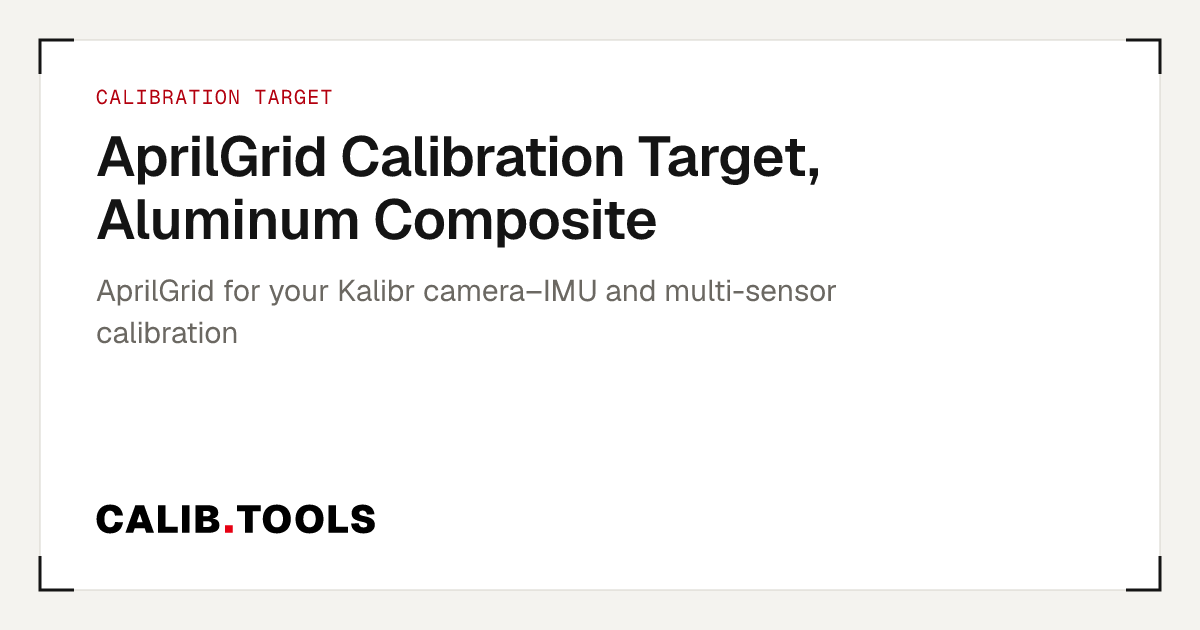
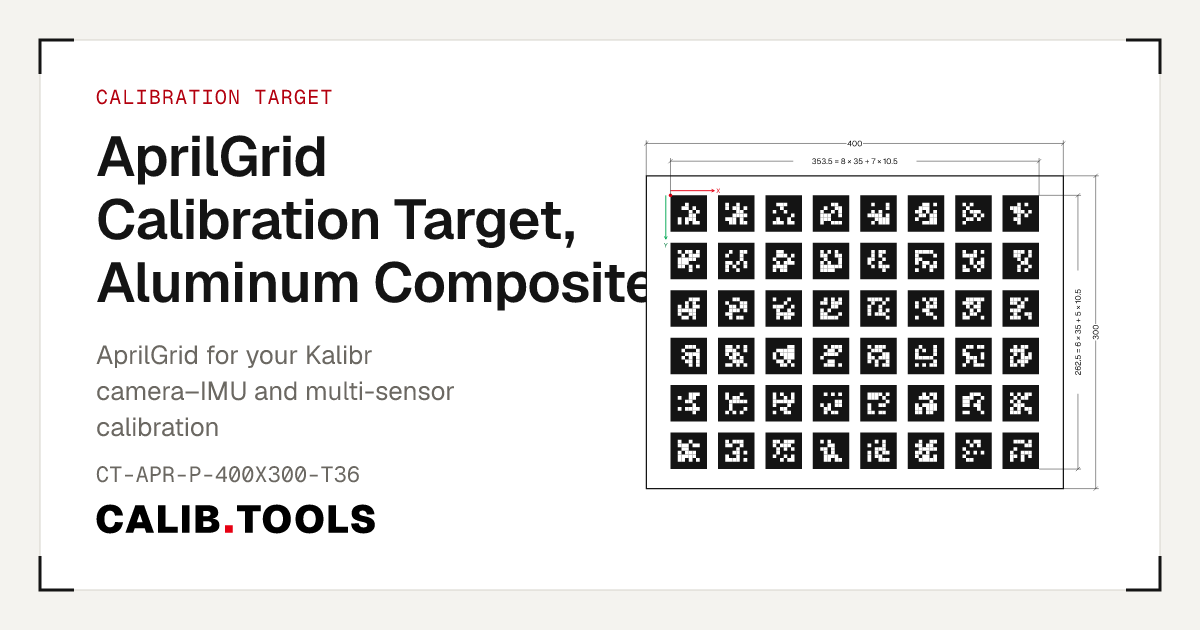
Line drawings for AprilGrid and circle-grid boards
- boardDrawing.ts draws AprilGrid and circle grids from their renderers
- Each pattern type states where its ink is and what its dimension measures:
  tags plus gaps for AprilGrid, center to center for circle grids
- Tests read the drawn tags and circles back and compare them with the
  dimension lines and the board size, for all 15 stock part numbers
- Product pages, product cards and share images pick the drawings up

Claude-Session: https://claude.ai/code/session_01Aqcesjts61K1qjNG4Q7EMj

diff --git a/src/lib/boardDrawing.ts b/src/lib/boardDrawing.ts
@@ -11,7 +11,8 @@
 import type { PatternSpec } from './patterns';
 import { renderCharucoSvg } from './renderCharuco';
 import { renderCheckerboardSvg } from './renderCheckerboard';
-import { patternExtent } from './pageLayout';
+import { renderAprilGridSvg, aprilGridTags } from './renderAprilGrid';
+import { renderCirclesSvg } from './renderCircles';
 import { CATALOG, specFromEntry } from './catalogPatterns';
 import { GENERATOR_DEFAULT } from './patternLink';
 import { ALL_CHARUCO_SIZES } from './boardSizes';
@@ -36,12 +37,64 @@ export interface BoardDrawingInput {
   dimensions?: boolean;
 }
 
-/** Pattern types this module can draw; their extent is exactly cols × square by rows × square. */
+/** Pattern types this module can draw. */
 const RENDERERS: Partial<Record<PatternSpec['type'], (s: PatternSpec, ox: number, oy: number) => string>> = {
   ChArUco: renderCharucoSvg,
   'ArUco grid': renderCharucoSvg,
   Checkerboard: renderCheckerboardSvg,
+  'AprilGrid (Kalibr)': renderAprilGridSvg,
+  'Symmetric circles': renderCirclesSvg,
+  'Asymmetric circles': renderCirclesSvg,
 };
+
+/**
+ * Where a pattern's ink is, relative to the origin its renderer is called with, and what
+ * the pattern dimension measures. Read off the renderers, never guessed:
+ * - squares: the block of squares, cols × square by rows × square;
+ * - AprilGrid: first tag edge to last tag edge (tags plus the gaps between them);
+ * - circle grids: the renderer centers each circle in a spacing-sized cell, so the ink starts
+ *   half a spacing minus the radius in; the dimension runs between the outermost circle centers.
+ */
+interface PatternFrame {
+  box: { x: number; y: number; w: number; h: number };
+  dimX: { from: number; to: number; text: string };
+  dimY: { from: number; to: number; text: string };
+  origin: { x: number; y: number };
+}
+
+export function patternFrame(s: PatternSpec): PatternFrame {
+  if (s.type === 'AprilGrid (Kalibr)') {
+    const tags = aprilGridTags(s);
+    const last = tags[tags.length - 1];
+    const w = last.x + last.size, h = last.y + last.size;
+    const gap = s.cols > 1 ? tags[1].x - tags[0].x - s.square : 0;
+    const part = (n: number) => (n > 1 ? `${n} × ${fmt(s.square)} + ${n - 1} × ${fmt(gap)}` : `${fmt(s.square)}`);
+    return {
+      box: { x: 0, y: 0, w, h },
+      dimX: { from: 0, to: w, text: `${fmt(w)} = ${part(s.cols)}` },
+      dimY: { from: 0, to: h, text: `${fmt(h)} = ${part(s.rows)}` },
+      origin: { x: 0, y: 0 },
+    };
+  }
+  if (s.type === 'Symmetric circles' || s.type === 'Asymmetric circles') {
+    const sx = s.circleSpacingX ?? s.square, sy = s.circleSpacingY ?? s.square;
+    const d = s.circleDiameter ?? s.square * 0.56;
+    const spanX = (s.cols - 1) * sx, spanY = (s.rows - 1) * sy;
+    return {
+      box: { x: sx / 2 - d / 2, y: sy / 2 - d / 2, w: spanX + d, h: spanY + d },
+      dimX: { from: sx / 2, to: sx / 2 + spanX, text: `${fmt(spanX)} = ${s.cols - 1} × ${fmt(sx)}` },
+      dimY: { from: sy / 2, to: sy / 2 + spanY, text: `${fmt(spanY)} = ${s.rows - 1} × ${fmt(sy)}` },
+      origin: { x: sx / 2, y: sy / 2 },
+    };
+  }
+  const w = s.cols * s.square, h = s.rows * s.square;
+  return {
+    box: { x: 0, y: 0, w, h },
+    dimX: { from: 0, to: w, text: `${fmt(w)} = ${s.cols} × ${fmt(s.square)}` },
+    dimY: { from: 0, to: h, text: `${fmt(h)} = ${s.rows} × ${fmt(s.square)}` },
+    origin: { x: 0, y: 0 },
+  };
+}
 
 /** One dimension line with end ticks and its value; `data-mm` is the dimension in mm. */
 function dim(name: string, x1: number, y1: number, x2: number, y2: number, mm: number, text: string, u: number): string {
@@ -63,9 +116,13 @@ const ext = (x1: number, y1: number, x2: number, y2: number) => `<line x1="${fmt
 export function boardDrawingSvg({ boardW, boardH, spec, label, dimensions = true }: BoardDrawingInput): string {
   const render = RENDERERS[spec.type];
   if (!render) throw new Error(`No line drawing for pattern type "${spec.type}"`);
-  const { bw: patW, bh: patH } = patternExtent(spec);
-  if (patW > boardW + 1e-6 || patH > boardH + 1e-6) throw new Error(`Pattern ${patW} × ${patH} mm does not fit on a ${boardW} × ${boardH} mm board`);
+  const f = patternFrame(spec);
+  const patW = f.box.w, patH = f.box.h;
+  if (patW > boardW + 1e-6 || patH > boardH + 1e-6) throw new Error(`Pattern ${fmt(patW)} × ${fmt(patH)} mm does not fit on a ${boardW} × ${boardH} mm board`);
+  // The ink is centered on the board. (rx, ry) is where the renderer starts; (ox, oy) is the ink's top-left corner.
   const ox = r2((boardW - patW) / 2), oy = r2((boardH - patH) / 2);
+  const rx = r2(ox - f.box.x), ry = r2(oy - f.box.y);
+  const dx1 = r2(rx + f.dimX.from), dx2 = r2(rx + f.dimX.to), dy1 = r2(ry + f.dimY.from), dy2 = r2(ry + f.dimY.to);
 
   // Line weights and text scale with the board so every size reads the same on screen.
   const u = Math.max(boardW, boardH) / 400;
@@ -76,7 +133,7 @@ export function boardDrawingSvg({ boardW, boardH, spec, label, dimensions = true
   const padT = dimensions ? d2 + 8 * u : 6 * u, padR = dimensions ? d2 + 8 * u : 6 * u;
 
   // The pattern, from the shared renderer; black is drawn in ink so the drawing matches the page.
-  const pattern = render(spec, ox, oy).replaceAll('fill="#000"', `fill="${INK}"`);
+  const pattern = render(spec, rx, ry).replaceAll('fill="#000"', `fill="${INK}"`);
 
   const axisLen = Math.min(patW, patH) * 0.16;
   const gapX = Math.min(oy, 6 * u) / 2 + 1.5 * u; // X arrow sits in the top margin, Y arrow in the left margin
@@ -85,8 +142,8 @@ export function boardDrawingSvg({ boardW, boardH, spec, label, dimensions = true
   const xa = { x1: ox, y: r2(oy - gapX), x2: r2(ox + axisLen) };
   const ya = { x: r2(ox - gapY), y1: oy, y2: r2(oy + axisLen) };
 
-  const gridW = `${fmt(patW)} = ${spec.cols} × ${fmt(spec.square)}`;
-  const gridH = `${fmt(patH)} = ${spec.rows} × ${fmt(spec.square)}`;
+  const gridW = f.dimX.text;
+  const gridH = f.dimY.text;
 
   return [
     `<svg xmlns="http://www.w3.org/2000/svg" viewBox="${fmt(-padL)} ${fmt(-padT)} ${fmt(boardW + padL + padR)} ${fmt(boardH + padT + padB)}" role="img" aria-label="Line drawing of ${label}: board ${fmt(boardW)} × ${fmt(boardH)} mm, pattern area ${fmt(patW)} × ${fmt(patH)} mm, ${spec.cols} × ${spec.rows} squares of ${fmt(spec.square)} mm" font-family="${MONO}" fill="${INK}">`,
@@ -101,26 +158,26 @@ export function boardDrawingSvg({ boardW, boardH, spec, label, dimensions = true
     `</g>`,
     `<text x="${fmt(xa.x2 + 2 * u)}" y="${fmt(xa.y + 2.2 * u)}" font-size="${fmt(6 * u)}" fill="${RED}">X</text>`,
     `<text x="${fmt(ya.x)}" y="${fmt(ya.y2 + 8 * u)}" font-size="${fmt(6 * u)}" text-anchor="middle" fill="#007A3D">Y</text>`,
-    `<circle class="origin" cx="${fmt(ox)}" cy="${fmt(oy)}" r="${fmt(1.7 * u)}" fill="${RED}"/>`,
+    `<circle class="origin" cx="${fmt(rx + f.origin.x)}" cy="${fmt(ry + f.origin.y)}" r="${fmt(1.7 * u)}" fill="${RED}"/>`,
     ...(dimensions ? [
     // Dimension and extension lines
     `<g class="dims" stroke="${INK}" stroke-width="${fmt(thin)}">`,
     ext(0, 0, 0, -d2 - over), ext(boardW, 0, boardW, -d2 - over),
-    ext(ox, oy, ox, -d1 - over), ext(ox + patW, oy, ox + patW, -d1 - over),
+    ext(dx1, oy, dx1, -d1 - over), ext(dx2, oy, dx2, -d1 - over),
     ext(boardW, 0, boardW + d2 + over, 0), ext(boardW, boardH, boardW + d2 + over, boardH),
-    ext(ox + patW, oy, boardW + d1 + over, oy), ext(ox + patW, oy + patH, boardW + d1 + over, oy + patH),
+    ext(ox + patW, dy1, boardW + d1 + over, dy1), ext(ox + patW, dy2, boardW + d1 + over, dy2),
     `<g stroke-width="${fmt(thin)}" fill="${INK}">`,
     dim('board-w', 0, -d2, boardW, -d2, boardW, fmt(boardW), u),
-    dim('pattern-w', ox, -d1, ox + patW, -d1, patW, gridW, u),
+    dim('pattern-w', dx1, -d1, dx2, -d1, f.dimX.to - f.dimX.from, gridW, u),
     dim('board-h', boardW + d2, 0, boardW + d2, boardH, boardH, fmt(boardH), u),
-    dim('pattern-h', boardW + d1, oy, boardW + d1, oy + patH, patH, gridH, u),
+    dim('pattern-h', boardW + d1, dy1, boardW + d1, dy2, f.dimY.to - f.dimY.from, gridH, u),
     `</g></g>`,
     ] : []),
     `</svg>`,
   ].join('').replace(/<text /g, '<text stroke="none" ');
 }
 
-/** Drawing of a stock ChArUco or checkerboard target by part number; undefined for anything else. */
+/** Drawing of a stock ChArUco, checkerboard, AprilGrid or circle-grid target by part number; undefined for anything else. */
 export function drawingForPartNumber(partNumber: string, opts: { dimensions?: boolean } = {}): string | undefined {
   const entry = CATALOG.find((e) => e.partNumber === partNumber && RENDERERS[e.spec.type]);
   if (!entry) return undefined;

diff --git a/src/lib/boardDrawing.test.ts b/src/lib/boardDrawing.test.ts
@@ -138,10 +138,84 @@ describe('drawings for product cards', () => {
     expect(representativePartNumber('charuco-composite')).toBe('CT-CHA-P-400X300-D6');
     expect(representativePartNumber('charuco-ceramic')).toBe('CT-CHA-C-150X100-D6');
     expect(representativePartNumber('checkerboard-composite')).toBe('CT-CHT-P-400X300-F');
-    expect(representativePartNumber('aprilgrid-composite')).toBeUndefined();
+    expect(representativePartNumber('aprilgrid-composite')).toBe('CT-APR-P-400X300-T36');
+    expect(representativePartNumber('circlegrid-composite')).toBe('CT-CIR-P-400X300-SYM');
+    expect(representativePartNumber('halcon-composite')).toBeUndefined();
     expect(representativePartNumber('mounting-fixture')).toBeUndefined();
     for (const h of ['charuco-composite', 'charuco-ceramic', 'checkerboard-composite']) {
       expect(drawingForPartNumber(representativePartNumber(h)!, { dimensions: false })).toBeTruthy();
     }
   });
 });
+
+describe('AprilGrid and circle-grid drawings', () => {
+  /** x of every pattern element the renderer drew, to compare with the dimension lines. */
+  const attr = (svg: string, tag: string, name: string) => [...svg.matchAll(new RegExp(`<${tag}[^>]* ${name}="([0-9.-]+)"`, 'g'))].map((m) => Number(m[1]));
+
+  it('AprilGrid: the dimension runs from the first tag edge to the last, tags plus gaps', () => {
+    const entries = CATALOG.filter((e) => e.spec.type === 'AprilGrid (Kalibr)');
+    expect(entries.length).toBe(5);
+    for (const e of entries) {
+      const svg = drawingForPartNumber(e.partNumber)!;
+      const d = byName(svg);
+      const [w, h] = e.partNumber.split('-')[3].split('X').map(Number);
+      const tag = e.spec.square, gap = tag * 0.3;
+      const expectW = e.spec.cols * tag + (e.spec.cols - 1) * gap;
+      const expectH = e.spec.rows * tag + (e.spec.rows - 1) * gap;
+      expect(d['board-w'].mm).toBe(w);
+      expect(d['pattern-w'].mm, e.partNumber).toBeCloseTo(expectW, 2);
+      expect(d['pattern-h'].mm, e.partNumber).toBeCloseTo(expectH, 2);
+      expect(Math.abs(d['pattern-w'].len - expectW)).toBeLessThanOrEqual(0.01);
+      expect(Math.abs(d['pattern-h'].len - expectH)).toBeLessThanOrEqual(0.01);
+      // The tags the renderer drew span exactly that width, and sit centered on the board
+      const pattern = /<g class="pattern">.*?<\/g>/s.exec(svg)![0];
+      const xs = [...pattern.matchAll(/<rect x="([0-9.-]+)" y="[0-9.-]+" width="([0-9.]+)" height="[0-9.]+" class="tag-bg"/g)].map((m) => [Number(m[1]), Number(m[2])]);
+      expect(xs.length).toBe(e.spec.rows * e.spec.cols);
+      const left = Math.min(...xs.map(([x]) => x)), right = Math.max(...xs.map(([x, s]) => x + s));
+      expect(right - left).toBeCloseTo(expectW, 2);
+      expect(left).toBeCloseTo((w - expectW) / 2, 1);
+      expect(expectW).toBeLessThanOrEqual(w);
+      expect(expectH).toBeLessThanOrEqual(h);
+    }
+  });
+
+  it('circle grids: the dimension runs between the outermost circle centers, and every circle is on the board', () => {
+    const entries = CATALOG.filter((e) => e.spec.type === 'Symmetric circles' || e.spec.type === 'Asymmetric circles');
+    expect(entries.length).toBe(10);
+    for (const e of entries) {
+      const svg = drawingForPartNumber(e.partNumber)!;
+      const d = byName(svg);
+      const [w, h] = e.partNumber.split('-')[3].split('X').map(Number);
+      const pitch = e.spec.square, r = e.spec.circleDiameter! / 2;
+      const pattern = /<g class="pattern">.*?<\/g>/s.exec(svg)![0];
+      const cx = attr(pattern, 'circle', 'cx'), cy = attr(pattern, 'circle', 'cy');
+      const expected = e.spec.type === 'Symmetric circles' ? e.spec.rows * e.spec.cols : Math.ceil((e.spec.rows * e.spec.cols) / 2);
+      expect(cx.length, e.partNumber).toBe(expected);
+      const spanX = Math.max(...cx) - Math.min(...cx), spanY = Math.max(...cy) - Math.min(...cy);
+      expect(d['pattern-w'].mm, e.partNumber).toBeCloseTo(spanX, 2);
+      expect(d['pattern-h'].mm, e.partNumber).toBeCloseTo(spanY, 2);
+      expect(d['pattern-w'].mm).toBeCloseTo((e.spec.cols - 1) * pitch, 2);
+      expect(Math.abs(d['pattern-w'].len - spanX)).toBeLessThanOrEqual(0.01);
+      // Ink stays on the board and is centered
+      expect(Math.min(...cx) - r).toBeGreaterThanOrEqual(0);
+      expect(Math.max(...cx) + r).toBeLessThanOrEqual(w);
+      expect(Math.min(...cy) - r).toBeGreaterThanOrEqual(0);
+      expect(Math.max(...cy) + r).toBeLessThanOrEqual(h);
+      expect(Math.min(...cx) - r).toBeCloseTo(w - (Math.max(...cx) + r), 1);
+    }
+  });
+
+  it('the origin dot sits on the first circle center for circle grids and on the first tag corner for AprilGrid', () => {
+    const cir = drawingForPartNumber('CT-CIR-P-400X300-SYM')!;
+    const first = /<g class="pattern"><circle cx="([0-9.]+)" cy="([0-9.]+)"/.exec(cir)!;
+    const o = /<circle class="origin" cx="([0-9.]+)" cy="([0-9.]+)"/.exec(cir)!;
+    expect(Number(o[1])).toBeCloseTo(Number(first[1]), 2);
+    expect(Number(o[2])).toBeCloseTo(Number(first[2]), 2);
+    const apr = drawingForPartNumber('CT-APR-P-400X300-T36')!;
+    const tag = /<g class="pattern"><rect x="([0-9.]+)" y="([0-9.]+)"/.exec(apr)!;
+    const oa = /<circle class="origin" cx="([0-9.]+)" cy="([0-9.]+)"/.exec(apr)!;
+    expect(Number(oa[1])).toBeCloseTo(Number(tag[1]), 2);
+    expect(Number(oa[2])).toBeCloseTo(Number(tag[2]), 2);
+  });
+});
+
